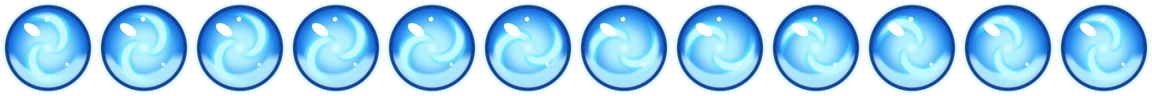
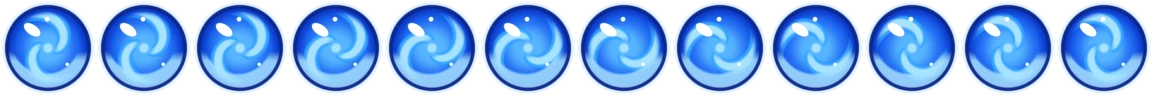
dune: otter orbs smaller, rich blue water balls circling the body

diff --git a/dune.html b/dune.html
@@ -153,7 +153,7 @@ const OTTER_SKILLS = [ /* owner: close first, middle second, ONE long-range skil
   { id: 'o_flurry', n: 'หมัดรัวกระแสน้ำ', key: 'L', ic: 201, mp: 11, cd: 5, mul: 2.6, gain: 2, anim: 'otter_skill_flurry', d: 'ประชิด: ปล่อยหมัดน้ำรัว 8 ฮิต เดินหน้าและเลี้ยวได้ ได้ลูกแก้ว 2' },
   { id: 'o_upper', n: 'หมัดเสยคลื่น', key: 'U', ic: 202, mp: 12, cd: 5, mul: 2.4, gain: 1, anim: 'otter_skill_upper', d: 'ประชิด: น้ำวนรอบตัวดูดศัตรูเข้ามารวบ แล้วระเบิดขึ้นฟ้า 3 ฮิต ได้ลูกแก้ว 1', lv: 2 },
   { id: 'o_drop', n: 'ทุบวังน้ำ', key: 'I', ic: 203, mp: 14, cd: 6, mul: 3, need: 2, anim: 'otter_skill_drop', d: 'ประชิด: โดดทุบพื้น ดูดศัตรูเข้ามา 4 ฮิต ใช้กลางอากาศได้ ใช้ลูกแก้ว 2', lv: 3 },
-  { id: 'o_spin', n: 'พายุหมัดหมุน', key: 'O', ic: 204, mp: 18, cd: 9, mul: .42, need: 3, anim: 'otter_skill_spin', d: 'ประชิด: ลูกแก้วน้ำขยายใหญ่หมุนรอบตัวกว่า 10 ฮิต เคลื่อนที่เร็วกว่าวิ่ง ปิดท้ายกระจายออก ใช้ลูกแก้ว 3', lv: 4 },
+  { id: 'o_spin', n: 'พายุหมัดหมุน', key: 'O', ic: 204, mp: 18, cd: 9, mul: .42, need: 3, anim: 'otter_skill_spin', d: 'ประชิด: ลูกแก้วน้ำหมุนรอบตัวกว่า 10 ฮิต เคลื่อนที่เร็วกว่าวิ่ง ปิดท้ายกระจายออก ใช้ลูกแก้ว 3', lv: 4 },
   { id: 'o_wave', n: 'หมัดคลื่นไกล', key: 'P', ic: 205, mp: 20, cd: 10, mul: .52, need: 1, all: 1, anim: 'otter_attack3', d: 'ระยะไกล: ใช้ลูกแก้วทั้งหมด ลูกละ 1 คลื่นทะลุแนว', lv: 5 },
   { id: 'o_ult', n: 'หมัดคลื่นระเบิด', key: 'R', ic: 206, mp: 40, cd: 26, mul: 7.5, need: 5, all: 1, anim: 'otter_attack3', d: 'ท่าไม้ตาย: ต้องครบ 5 ลูกแก้ว รวมน้ำล้อมหมัด ต่อยแล้วระเบิดน้ำออก 5 ฮิต', lv: 7 }
 ];
@@ -171,7 +171,7 @@ const DRAGON_COMBO = [ /* hit feel: stop = freeze on contact (s), shake, big = f
 const COMBO = OTTER ? OTTER_COMBO : DRAGON_COMBO;
 
 /* ---------- assets ---------- */
-const BUILD = 22;   /* raise when sprites.json / world.json change, so a browser never mixes a new page with an old list */
+const BUILD = 23;   /* raise when sprites.json / world.json change, so a browser never mixes a new page with an old list */
 const SP = {}, ENV = {}, IMG = {}; let WORLD = {};
 const load = src => new Promise(ok => { const i = new Image(); i.onload = () => Promise.race([i.decode ? i.decode().catch(() => { }) : Promise.resolve(), new Promise(r => setTimeout(r, 2500))]).then(() => ok(i));   /* a browser may never finish decode() in a background window: the game must still start */ i.onerror = () => { console.warn('missing', src); ok(null); }; i.src = src; });
 async function loadAll() {
@@ -337,15 +337,15 @@ function bodyDrops(dt) { if (P.dead || (P.st !== 'atk' && P.st !== 'skill')) ret
 function stepDrips(dt) { bodyDrops(dt); for (let i = G.wd.length - 1; i >= 0; i--) { const d = G.wd[i]; d.t -= dt; if (d.t <= 0) { G.wd.splice(i, 1); continue; } d.vy += 760 * dt; d.x += d.vx * dt; d.y += d.vy * dt; } }
 function drawDrips() { if (!G.wd.length) return; ctx.save(); for (const [c, g] of [['#163f8f', .8], ['#68d8ff', 0]]) { ctx.fillStyle = c; ctx.beginPath(); for (const d of G.wd) { const r = d.r * clamp(d.t / .14, .35, 1) + g, x = WX(d.x), y = WY(d.y), an = Math.atan2(d.vy, d.vx), rx = r * (1 + clamp(Math.hypot(d.vx, d.vy) / 300, 0, 1) * .9); ctx.moveTo(x + Math.cos(an) * rx, y + Math.sin(an) * rx); ctx.ellipse(x, y, rx, r, an, 0, 6.283); } ctx.fill(); } ctx.fillStyle = '#f2fdff'; ctx.beginPath(); for (const d of G.wd) if (d.r > 1.6) { const x = WX(d.x) - d.r * .3, y = WY(d.y) - d.r * .3; ctx.moveTo(x + .7, y); ctx.arc(x, y, .7, 0, 6.283); } ctx.fill(); ctx.restore(); }
 function drawFistWater() { if (P.st === 'skill' && P.cast && P.cast.id === 'o_ult') { if (P.ph > 1) return; const q = fistAt(COMBO[2]), k = P.ph === 0 ? clamp(P.t / .52, 0, 1) : 1, o = SP.otter_orb; waterSwirl(q.x, q.y, 16 + 46 * out3(k) + Math.sin(G.t * 30) * 2 * k, .55 + .4 * k); if (o && o.img && k < 1) for (let i = 0; i < 5; i++) { const an = G.t * 7 + i * 6.283 / 5, r = (1 - k) * 46 + 5, z = 15 * (1 - k * .55); ctx.drawImage(o.img, ((Math.floor(G.t * 15) + i * 2) % o.n) * o.w, 0, o.w, o.h, WX(q.x + Math.cos(an) * r) - z / 2, WY(q.y + Math.sin(an) * r * .7) - z / 2, z, z); } return; } if (P.st === 'skill' && P.cast && P.cast.id === 'o_step') { const k = SP.otter_wkick; if (P.ph !== 1 || !k || !k.img) return; const z = 66 + Math.sin(G.t * 34) * 3, i = Math.floor(G.t * 16) % 4; ctx.save(); ctx.globalAlpha = .96; ctx.translate(WX(P.x + P.dir * (18 + z * .86)), WY(P.y - 21)); ctx.scale(P.dir, 1); ctx.drawImage(k.img, i * k.w, 0, k.w, k.h, -z * .86, -z / 2, z, z); ctx.restore(); return; } if (P.st !== 'atk') return; const C = COMBO[P.combo], m = SP.fx_w_spin; if (!m || !m.img) return; const f = P.f, a = clamp((f - (C.hit - 2)) / 1.4, 0, 1) * (1 - clamp((f - (C.hit + 2.4)) / 2, 0, 1)); if (a <= 0) return; const q = fistAt(C), pop = 1 - clamp(Math.abs(f - C.hit) / 3, 0, 1), z = (C.big ? 30 : 22) * (.68 + pop * .5), i = 3 + Math.floor(G.t * 22) % 3; ctx.save(); ctx.globalAlpha = a * .92; ctx.translate(WX(q.x + P.dir * 2), WY(q.y)); ctx.rotate(G.t * 15 * P.dir); ctx.drawImage(m.img, (i % m.cols) * m.w, Math.floor(i / m.cols) * m.h, m.w, m.h, -z / 2, -z / 2, z, z); ctx.restore(); }
-function spinOrb(i) { const t = P.t, a = (P.oa || 0) + i * 6.283 / 5, q = Math.sin(a), c = clamp((t - 21.5) / 2.5, 0, 1), gather = c * c * (3 - 2 * c), burst = t < 24 ? 0 : out3((t - 24) / 4), R = (26 + 50 * out3(t / 4)) * (1 - .66 * gather) + 130 * burst; return { x: P.x + Math.cos(a) * R, y: P.y - 34 + q * R * .42, q, burst }; }
+function spinOrb(i) { const t = P.t, a = (P.oa || 0) + i * 6.283 / 5, q = Math.sin(a), c = clamp((t - 21.5) / 2.5, 0, 1), gather = c * c * (3 - 2 * c), burst = t < 24 ? 0 : out3((t - 24) / 4), R = (24 + 28 * out3(t / 4)) * (1 - .6 * gather) + 130 * burst; return { x: P.x + Math.cos(a) * R, y: P.y - 34 + q * R * .42, q, burst }; }
 function drawFistRing(front) { /* owner: skill O = the water orbs grow big and circle the body, flung outward on the last hit */
   if (P.st !== 'skill' || !P.cast || P.cast.id !== 'o_spin') return; const m = SP.otter_orb; if (!m || !m.img) return; const t = P.t, fade = 1 - clamp((t - 25) / 2.6, 0, 1), grow = out3(t / 4.5);
-  for (let i = 0; i < 5; i++) { const o = spinOrb(i); if ((o.q >= 0) !== !!front) continue; const z = (15 + 25 * grow) * (1 + o.q * .17) * (1 + o.burst * .22) * (1 + (P.opop || 0) * .18), fr = (Math.floor(G.t * 18) + i * 2) % m.n; ctx.save(); ctx.globalAlpha = fade * (o.q < 0 ? .88 : 1); ctx.drawImage(m.img, fr * m.w, 0, m.w, m.h, WX(o.x) - z / 2, WY(o.y) - z / 2, z, z); ctx.restore(); } }
+  for (let i = 0; i < 5; i++) { const o = spinOrb(i); if ((o.q >= 0) !== !!front) continue; const z = (11 + 4 * grow) * (1 + o.q * .15) * (1 + o.burst * .22) * (1 + (P.opop || 0) * .18), fr = (Math.floor(G.t * 18) + i * 2) % m.n; ctx.save(); ctx.globalAlpha = fade * (o.q < 0 ? .88 : 1); ctx.drawImage(m.img, fr * m.w, 0, m.w, m.h, WX(o.x) - z / 2, WY(o.y) - z / 2, z, z); ctx.restore(); } }
 function drawPullWhirl(front) { /* skill U: a whirlpool on the ground and a ring of water wrapping the waist, half behind and half in front of the body */
   if (P.st !== 'skill' || !P.cast || P.cast.id !== 'o_upper' || P.t >= 6.6) return; const m = SP.fx_w_spin; if (!m || !m.img) return; const u = clamp(P.t / 6, 0, 1), al = clamp(P.t / 1.1, 0, 1) * (1 - clamp((P.t - 6) / .6, 0, 1)), i = 8 + Math.floor(G.t * 24) % 12, sx = (i % m.cols) * m.w, sy = Math.floor(i / m.cols) * m.h, spin = G.t * 10 * P.dir;
   if (!front) { const z = lerp(370, 230, u); ctx.save(); ctx.globalAlpha = al * .82; ctx.translate(WX(P.ux), WY(P.uy - 2)); ctx.scale(1, .32); ctx.rotate(spin); ctx.drawImage(m.img, sx, sy, m.w, m.h, -z / 2, -z / 2, z, z); ctx.restore(); }
   const z = lerp(176, 120, u); ctx.save(); ctx.globalAlpha = al * .8; ctx.translate(WX(P.ux), WY(P.uy - 32)); ctx.beginPath(); ctx.rect(-z, front ? 0 : -z, z * 2, z); ctx.clip(); ctx.scale(1, .36); ctx.rotate(-spin); ctx.drawImage(m.img, sx, sy, m.w, m.h, -z / 2, -z / 2, z, z); ctx.restore(); }
-function drawOrbs(front) { const m = SP.otter_orb; if (!m || !m.img || !P.orbs || P.dead || (P.st === 'skill' && P.cast && P.cast.id === 'o_spin')) return; for (let i = 0; i < P.orbs; i++) { const a = G.t * 2.4 + i * 6.283 / P.orbs, q = Math.sin(a); if ((q >= 0) !== !!front) continue; const z = 15 + q * 3, fr = (Math.floor(G.t * 15) + i * 2) % m.n; ctx.save(); ctx.globalAlpha = q < 0 ? .86 : 1; ctx.translate(WX(P.x + Math.cos(a) * 38), WY(P.y - 32 + q * 15)); ctx.drawImage(m.img, fr * m.w, 0, m.w, m.h, -z / 2, -z / 2, z, z); ctx.restore(); } }
+function drawOrbs(front) { const m = SP.otter_orb; if (!m || !m.img || !P.orbs || P.dead || (P.st === 'skill' && P.cast && P.cast.id === 'o_spin')) return; for (let i = 0; i < P.orbs; i++) { const a = G.t * 2.4 + i * 6.283 / P.orbs, q = Math.sin(a); if ((q >= 0) !== !!front) continue; const z = 10.5 + q * 1.8, fr = (Math.floor(G.t * 15) + i * 2) % m.n; ctx.save(); ctx.globalAlpha = q < 0 ? .86 : 1; ctx.translate(WX(P.x + Math.cos(a) * 34), WY(P.y - 32 + q * 13)); ctx.drawImage(m.img, fr * m.w, 0, m.w, m.h, -z / 2, -z / 2, z, z); ctx.restore(); } }
 function lunge(v) { let nv = P.dir * v; if (P.on && P.plat) { const nx = P.x + nv * .08; if (nx < P.plat.x + 10 || nx > P.plat.x + P.plat.w - 10) nv = 0; } P.vx = nv; }
 function ring(x, y, R, T = .32) { if (G.rings.length < 14) G.rings.push({ x, y, R, T, t: 0 }); }
 function stepCast(dt) {

diff --git a/tools/art/otter_orb.py b/tools/art/otter_orb.py
@@ -9,7 +9,7 @@ import numpy as np, cv2
 from PIL import Image
 
 CELL, SS, N = 96, 4, 12; S = CELL * SS; y, x = np.mgrid[0:S, 0:S].astype(np.float32); x = (x + .5) / S * 2 - 1; y = (y + .5) / S * 2 - 1; r = np.hypot(x, y); th = np.arctan2(y, x)
-NAVY, DEEP, BLUE, CYAN, PALE, WHITE = [np.array(c, np.float32) / 255 for c in ((10, 44, 128), (10, 92, 214), (20, 150, 245), (86, 224, 255), (196, 248, 255), (255, 255, 255))]
+NAVY, DEEP, BLUE, CYAN, PALE, WHITE = [np.array(c, np.float32) / 255 for c in ((6, 26, 118), (8, 50, 192), (16, 96, 242), (58, 168, 255), (168, 226, 255), (255, 255, 255))]   # owner: a rich saturated blue water ball
 def ss(a, b, v): q = np.clip((v - a) / (b - a), 0, 1); return q * q * (3 - 2 * q)
 def mix(rgb, col, k): return rgb * (1 - k[..., None]) + col * k[..., None]
 R = .86; ball = 1 - ss(R - .012, R + .012, r); u = np.clip(r / R, 0, 1)
@@ -17,7 +17,7 @@ sheet = np.zeros((CELL, CELL * N, 4), np.float32)
 for f in range(N):
     ph = f / N * 2 * np.pi
     rgb = mix(np.broadcast_to(CYAN, (S, S, 3)).copy(), BLUE, ss(.25, .72, u)); rgb = mix(rgb, DEEP, ss(.66, 1, u))            # clear blue in the middle, deep at the edge
-    al = .46 + .5 * ss(.3, .98, u)
+    al = .86 + .13 * ss(.3, .98, u)   # nearly solid, so the sand does not turn the middle grey-green
     arm = np.sin(2 * th + 6.0 * u - ph); band = ss(.12, .3, u) * (1 - ss(.74, .92, u))                                       # two soft arms of water turning inside
     rgb = mix(rgb, CYAN, ss(.05, .55, arm) * band * .9); al = al + ss(.05, .55, arm) * band * .3
     rgb = mix(rgb, PALE, ss(.62, .92, arm) * band); al = al + ss(.62, .92, arm) * band * .2

diff --git a/docs/action-game.md b/docs/action-game.md
@@ -2325,3 +2325,6 @@ Owner: "o ให้ลูกแก้วน้ำใหญ่ขึ้น แล
 
 ### DUNE: otter O hits harder (2026-11-22, `?hero=otter&test=1&v=28`)
 Owner: "ดูไม่แรงเลย". The 5 big orbs speed up while turning, pulse and shake the screen on contact with splashes behind the target, rush in to the body for a beat, then explode outward: a big crown splash at the otter, 5 smaller bursts round it, two rings, screen shake and flash, and a last hit about 3 times a normal tick over a 300 wide area that throws monsters up. Checked at 1280x720 and 740x360, both directions, the dragon still plays, no console errors. Not tried on a real phone.
+
+### DUNE: otter orbs smaller and blue (2026-11-22, `?hero=otter&test=1&v=29`)
+Owner: "เอาลูกแก้วเล็กลง ปรับสีให้เหมือนวอเตอร์บอลของ RO แต่หมุนรอบตัว" (colour feel only, the art is our own, painted by `tools/art/otter_orb.py`). The orb is now a nearly solid royal blue ball with a navy edge, so the sand no longer turns its middle grey-green. Size: idle about 10 px (was 13), skill O at most about 15 px (was 25), with a tighter orbit. Checked at 1280x720 and 740x360: all 7 skills hit in both directions, the dragon still plays and loads no otter art, no console errors. Not tried on a real phone.
